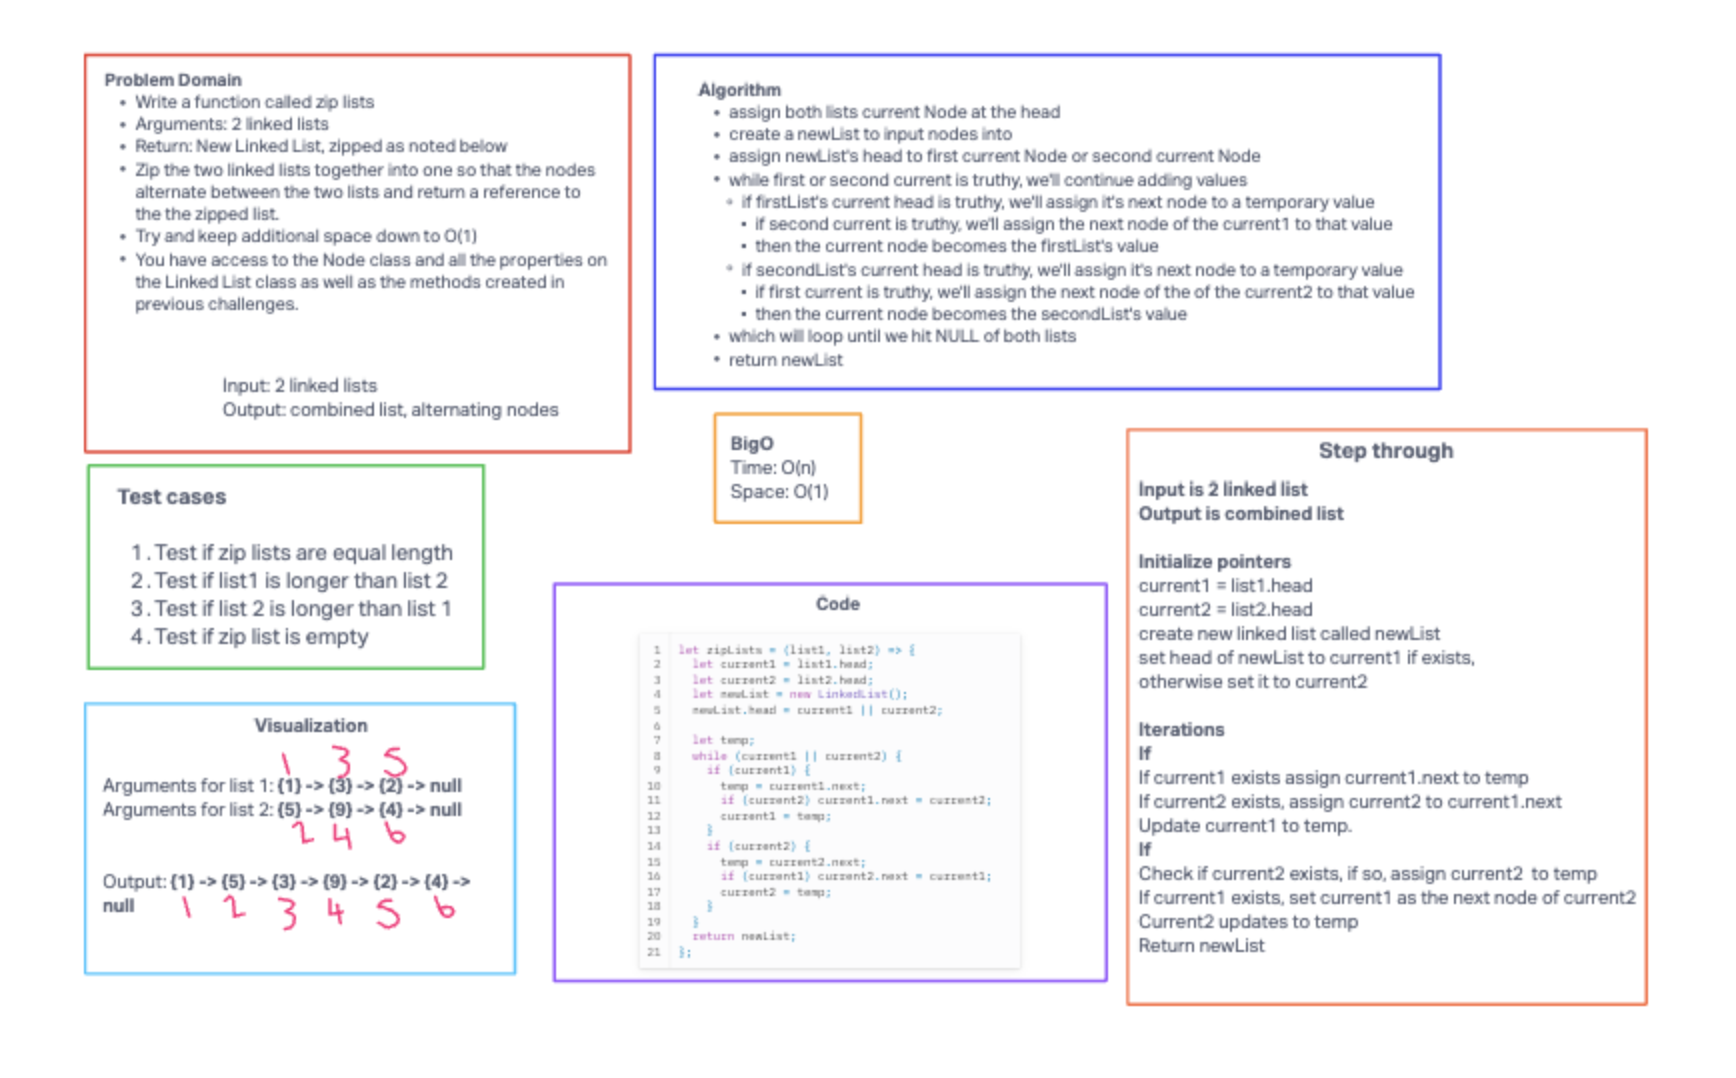
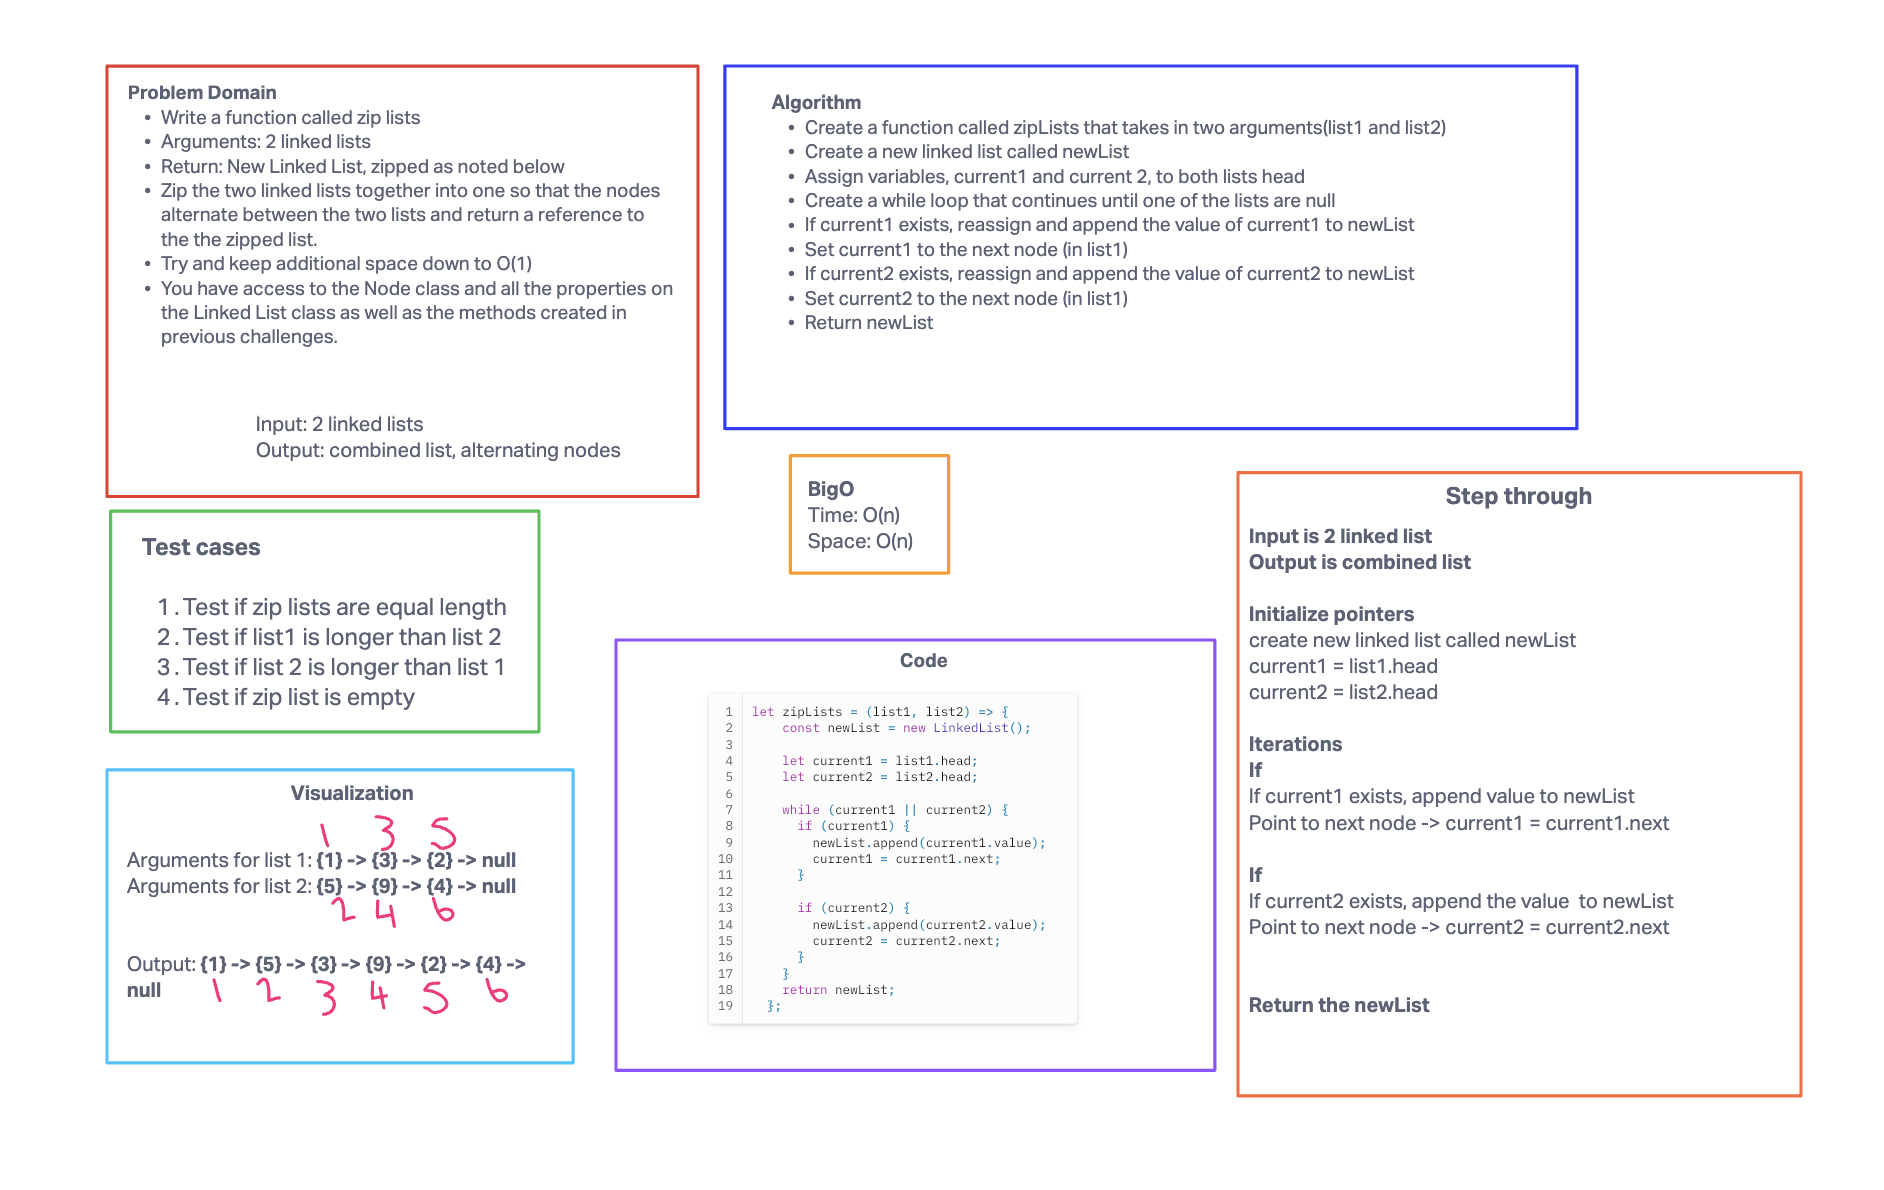
add new whiteboard for new code

Changed region(s): [[0.0311, 0.0306, 0.9643, 0.949]]

diff --git a/javascript/linked-list/README.md b/javascript/linked-list/README.md
@@ -52,11 +52,11 @@ space: O(1)
 
 ZipLists
 time: O(n)
-space: O(1)
+space: O(n)
 
 ZipSort
 time: O(n)
-space: O(1)
+space: O(n)
 
 ## Collaboration
 
